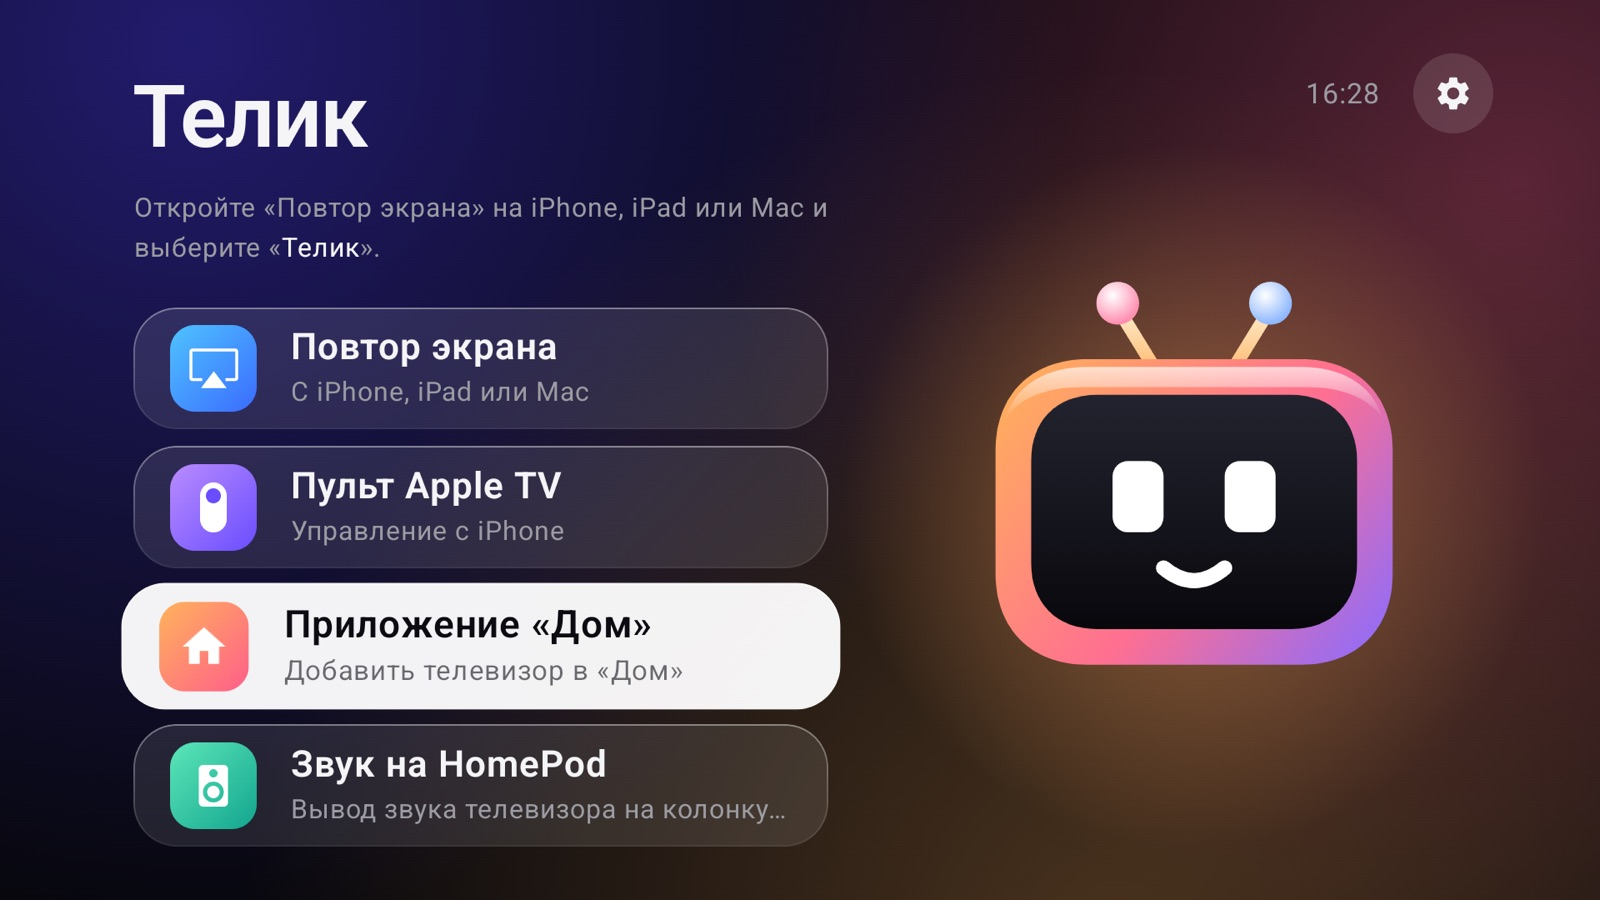
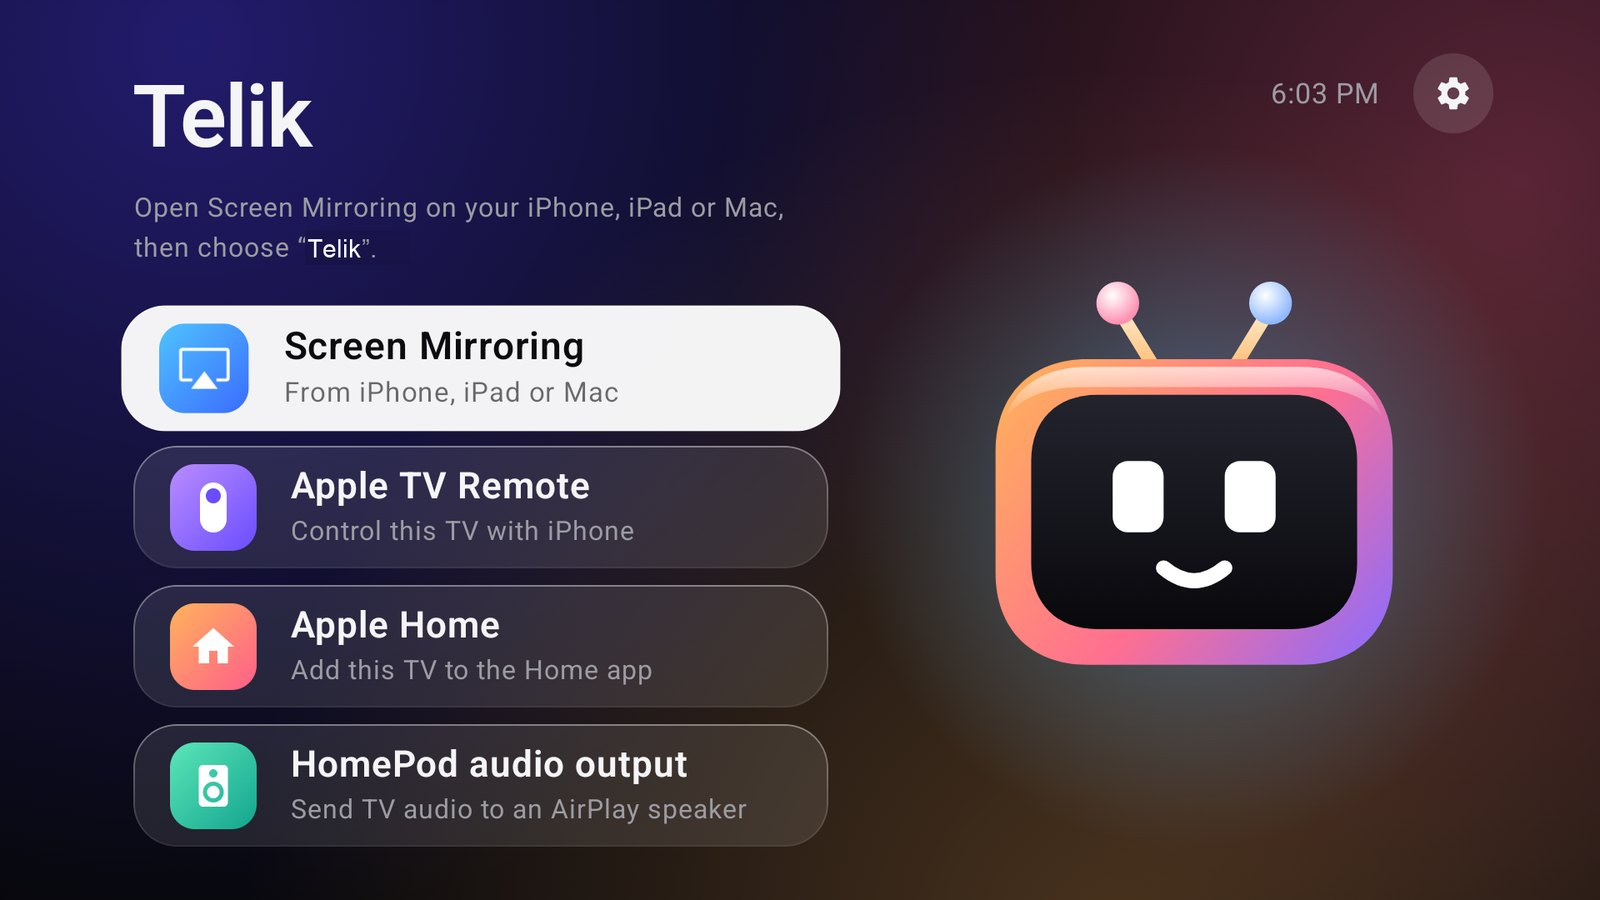
docs: use a screenshot for each site language

diff --git a/site/ru/index.html b/site/ru/index.html
@@ -16,7 +16,7 @@
 <meta property="og:title" content="Телик: пульт iPhone, клавиатура, AirPlay и «Дом» для Android TV">
 <meta property="og:description" content="Одно бесплатное приложение на телевизоре. Без приставки Apple TV, сервера и приложений на iPhone.">
 <meta property="og:url" content="https://andrewkomkov.github.io/telik/ru/">
-<meta property="og:image" content="https://andrewkomkov.github.io/telik/assets/home.jpg">
+<meta property="og:image" content="https://andrewkomkov.github.io/telik/assets/home-ru.jpg">
 <meta name="twitter:card" content="summary_large_image">
 <link rel="stylesheet" href="../style.css">
 <script type="application/ld+json">
@@ -83,7 +83,7 @@
         <a class="button" href="https://github.com/andrewkomkov/telik">Исходный код</a>
       </div>
       <p class="note">Бесплатно, с открытым кодом, GPL-3.0. Android TV 13+, сборка для 32-битных ARM.</p>
-      <img class="shot" src="../assets/home.jpg" alt="Главный экран Телика: повтор экрана, пульт Apple TV, приложение «Дом» и звук на HomePod" width="1600" height="900">
+      <img class="shot" src="../assets/home-ru.jpg" alt="Главный экран Телика: повтор экрана, пульт Apple TV, приложение «Дом» и звук на HomePod" width="1600" height="900">
     </div>
 
     <section id="features">

diff --git a/site/index.html b/site/index.html
@@ -101,7 +101,7 @@
         <li>Download <code>telik-*-armv7.apk</code> from <a href="https://github.com/andrewkomkov/telik/releases/latest">Releases</a> and install it on the TV. <code>adb install</code> works, and so does a file manager.</li>
         <li>Open Telik and allow accessibility access when asked. It presses the remote buttons and receives text.</li>
         <li>On the iPhone, open Control Center, tap the remote icon, choose Telik and enter the code from the TV.</li>
-        <li>To add the Apple Home tile, open <em>Home app</em> in Telik and scan the QR code.</li>
+        <li>To add the Apple Home tile, open <em>Apple Home</em> in Telik and scan the QR code.</li>
       </ol>
     </section>
 

diff --git a/README.ru.md b/README.ru.md
@@ -8,7 +8,7 @@
 [Сайт](https://andrewkomkov.github.io/telik/ru/) · [English](README.md) ·
 [Скачать](https://github.com/andrewkomkov/telik/releases/latest)
 
-![Главный экран Телика](site/assets/home.jpg)
+![Главный экран Телика](site/assets/home-ru.jpg)
 
 ## Возможности
 
@@ -51,14 +51,14 @@ adb shell appops set dev.telik.tv TURN_SCREEN_ON allow
 adb shell dumpsys deviceidle whitelist +dev.telik.tv
 ```
 
+Первая команда разрешает Телику выключить `low_power_standby_enabled`. В режиме ожидания телевизор
+может потреблять больше энергии.
+
 Чтобы беспроводная отладка оставалась включённой после обрывов Wi-Fi и перезагрузок, выполните команду ниже. Тогда любой в вашей сети сможет попытаться сопрячься с телевизором, поэтому без необходимости её не включайте.
 
 ```sh
 adb shell settings put global telik_keep_wireless_debugging 1
 ```
-
-Первая команда разрешает Телику выключить `low_power_standby_enabled`. В режиме ожидания телевизор
-может потреблять больше энергии.
 
 Инструкция по сборке, благодарности и лицензия: в [README на английском](README.md).
 

diff --git a/README.md b/README.md
@@ -48,14 +48,14 @@ adb shell appops set dev.telik.tv TURN_SCREEN_ON allow
 adb shell dumpsys deviceidle whitelist +dev.telik.tv
 ```
 
+The first command allows Telik to turn off `low_power_standby_enabled`, which can use more power in
+standby.
+
 To keep wireless debugging on after Wi-Fi drops and reboots, run the command below. Anyone on your network can then try to pair with the TV, so leave it off if you do not need it.
 
 ```sh
 adb shell settings put global telik_keep_wireless_debugging 1
 ```
-
-The first command allows Telik to turn off `low_power_standby_enabled`, which can use more power in
-standby.
 
 ## Build
 
